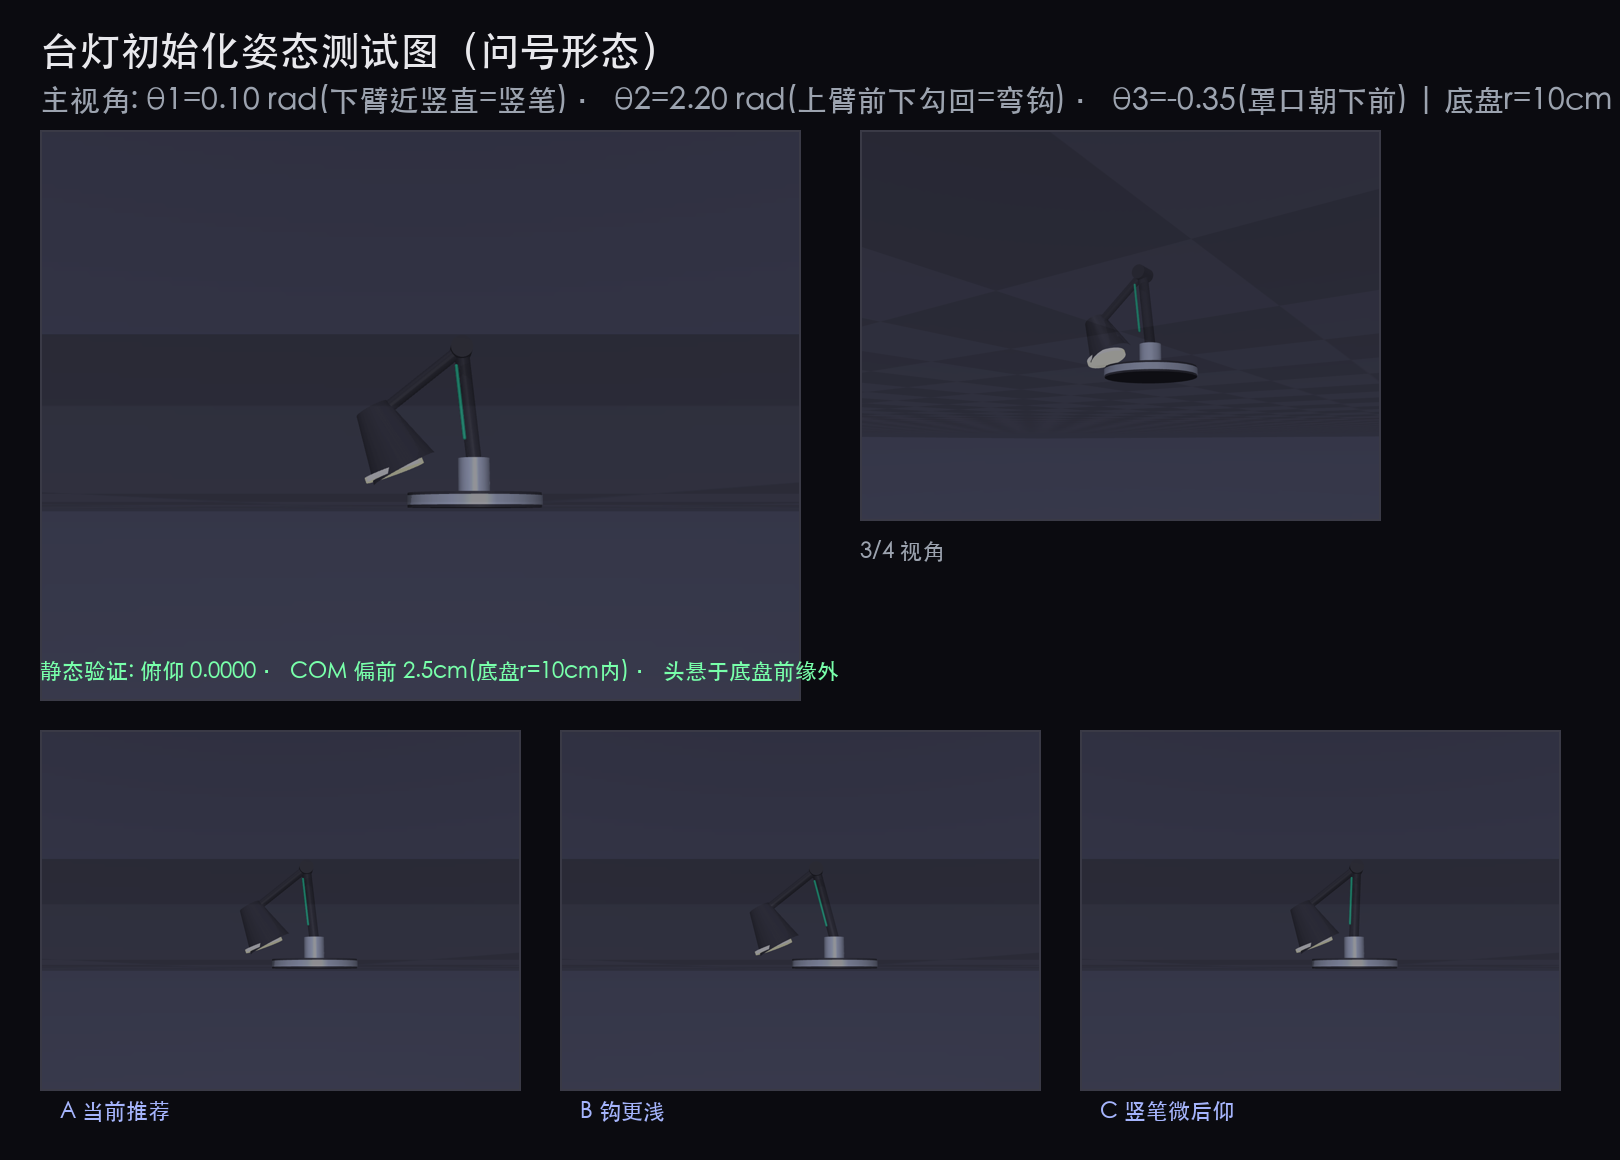
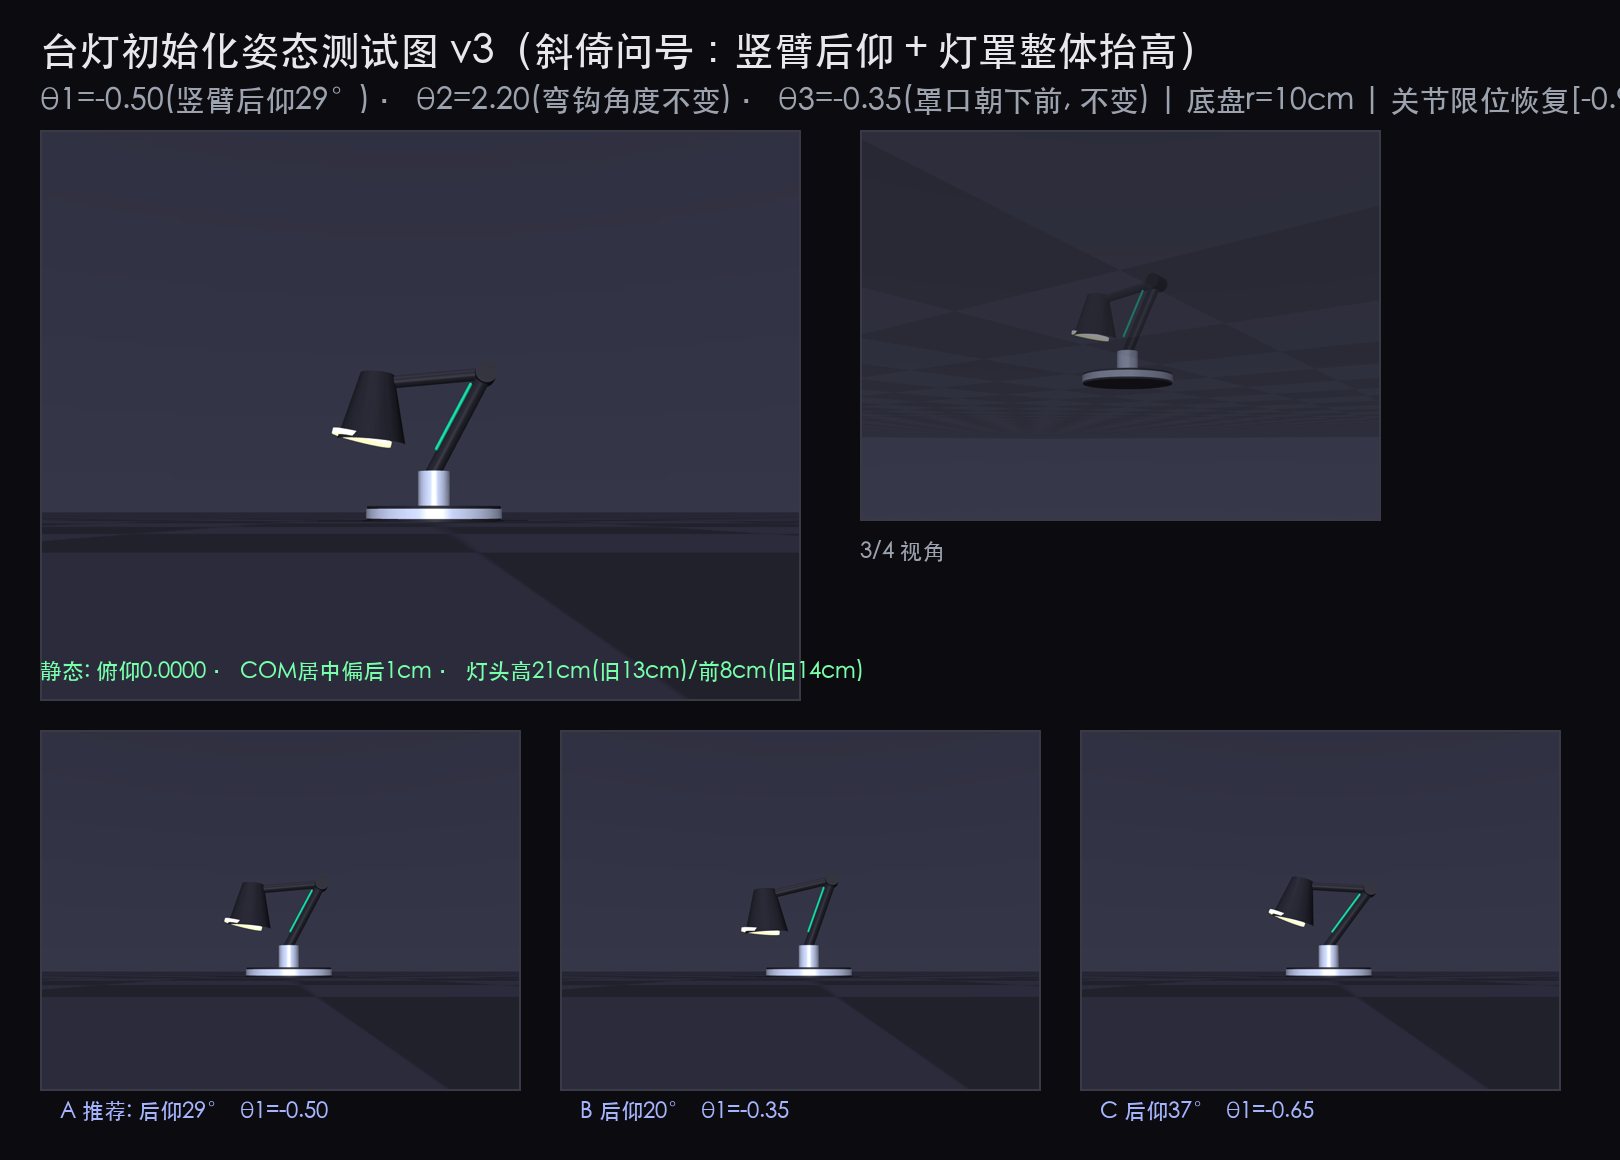
feature(pixar-lamp-jump-v2): 斜倚问号站姿 — 竖臂后仰θ1=-0.5(用户定义:上关节角度不变、竖臂狠狠后仰、灯罩整体抬高), 弯钩/罩口角度不变; 灯头高13→21cm、前探14→8cm; 恢复th1后仰限位[-0.90,1.75]

diff --git a/embedded/pixar-lamp/sim/lamp_sim.py b/embedded/pixar-lamp/sim/lamp_sim.py
@@ -464,7 +464,7 @@ class JumpControllerV2:
     repeat=True: 落地稳定后自动进入下一跳(移动任务)。"""
 
     PHASE_SETTLE, PHASE_FIRE, PHASE_FLIGHT, PHASE_LAND, PHASE_STAND, PHASE_HOLD = 0, 1, 2, 3, 4, 5
-    STAND_POSE = (0.10, 2.20, -0.35)  # 问号站姿: 下臂近竖直(?的竖笔), 肘在顶点, 上臂前下勾回(?的弯钩), 头挂钩末端罩口朝下
+    STAND_POSE = (-0.50, 2.20, -0.35)  # 斜倚问号: 竖臂后仰29°, 弯钩越顶前探, 灯罩抬高、罩口朝下前(角度不变)
 
     def __init__(self, p, repeat=False, stand_after=True, stop_t=None):
         self.p0 = np.array(p, dtype=float)
